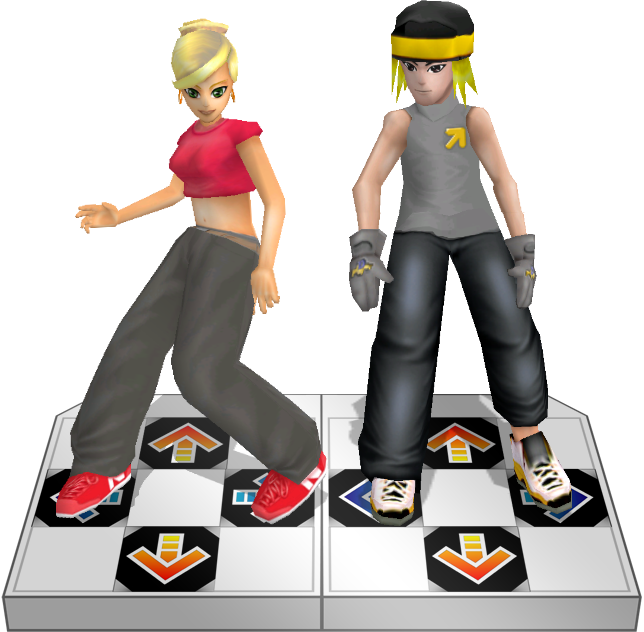
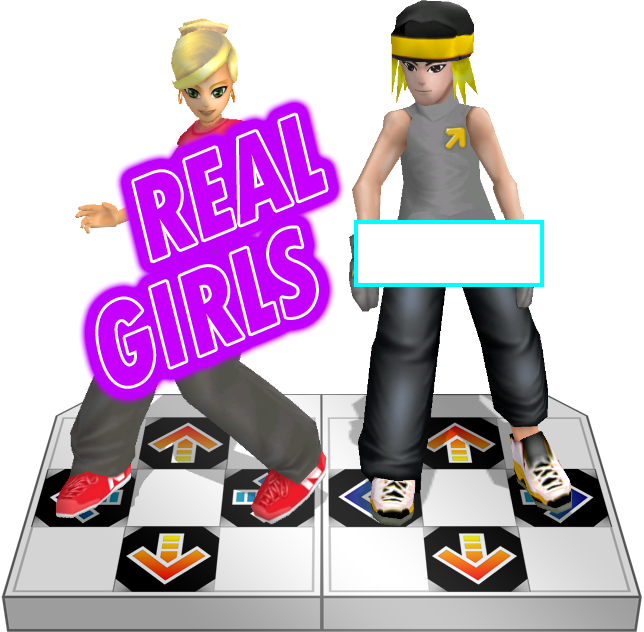
april fools build
git-svn-id: https://svn.stepmania.com/svn/trunk@27925 822b03c2-8f45-0410-a444-95660a741a6f

Changed region(s): [[0.1242, 0.1503, 0.8696, 0.6614]]

diff --git a/stepmania/src/ProductInfo.h b/stepmania/src/ProductInfo.h
@@ -12,7 +12,7 @@
 #define PRODUCT_ID_BARE StepMania4
 
 // Version info displayed to the user
-#define PRODUCT_VER_BARE alpha1
+#define PRODUCT_VER_BARE April 1st
 
 // A unique ID for a build of an application.  This is used in crash reports and in the network code's version handling 
 #define PRODUCT_ID_VER_BARE PRODUCT_ID_BARE PRODUCT_VER_BARE
